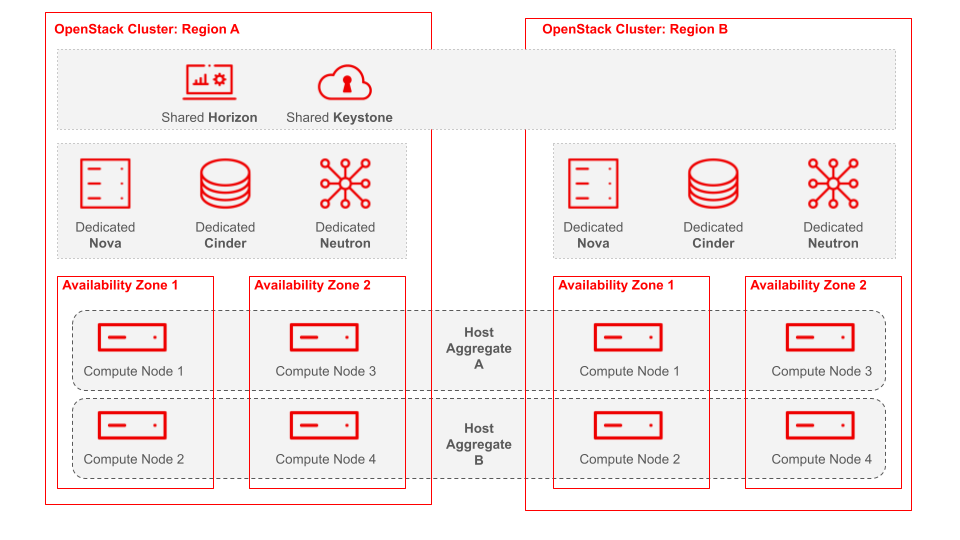
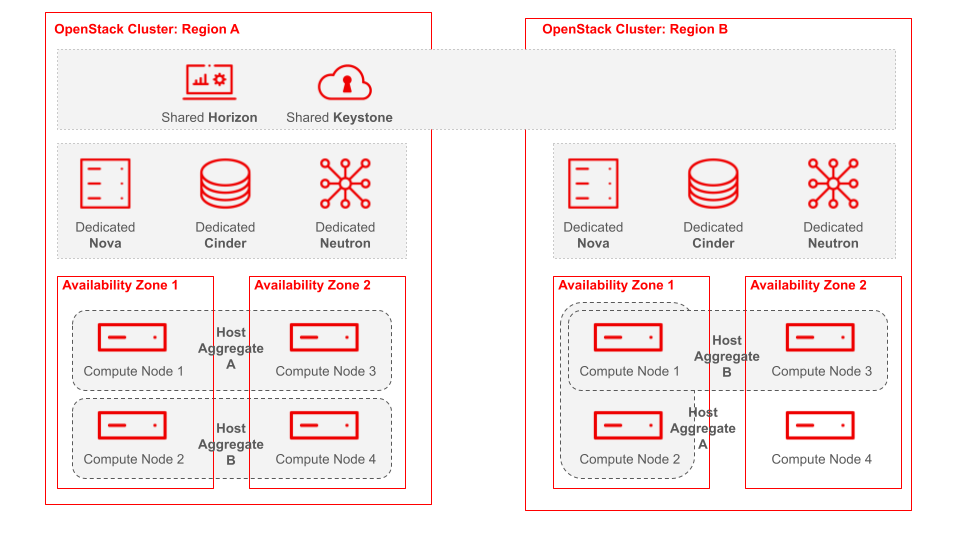
deploy: 9fea4e8fff949d83d8bedf75796d6da71beb3137

diff --git a/rhoso-intro/1/ch3-multitenancy/s3-regions-azs-cells-lecture.html b/rhoso-intro/1/ch3-multitenancy/s3-regions-azs-cells-lecture.html
@@ -295,7 +295,7 @@ The figures in this chapter do not list all user-facing OpenStack services just 
 </dd>
 <dt class="hdlist1">Availability Zones (AZs)</dt>
 <dd>
-<p>An availability zone is a failure domain inside an OpenStack cluster. It can be defined by a server rack, an uninterruptive power supply, a network switch, a data center building, or any other physical constraint that creates the possibility of all compute resources in the AZ becoming unavailable at the same time.</p>
+<p>An availability zone typically represents a failure domain inside an OpenStack cluster. It can be defined by a server rack, an uninterruptive power supply, a network switch, a data center building, or any other physical constraint that creates the possibility of all compute resources in the AZ becoming unavailable at the same time.</p>
 </dd>
 <dt class="hdlist1">Host Aggregates</dt>
 <dd>
@@ -311,7 +311,10 @@ The figures in this chapter do not list all user-facing OpenStack services just 
 <p>OpenStack Operators usually have direct visibility of only regions and AZs but not of host aggregates and cells. They can choose, for certain resource types, their region and AZ.</p>
 </div>
 <div class="paragraph">
-<p>OpenStack Operators are impacted by host aggregates and cells indirectly, from the definition of server flavors and other API resources which impact the automatic scheduling of server instances on cluster nodes.</p>
+<p>OpenStack Operators are impacted by host aggregates and cells indirectly, from the definition of server flavors which impact the scheduling of server instances on cluster nodes.</p>
+</div>
+<div class="paragraph">
+<p>Regions, AZs, host aggregates, and cells can be used in different ways to structure large privage clouds and the usage patterns vary considerably depending on size and number of data centers and other reasons. OpenStack is not very prescriptive on how and when to use those features, and this course shows examples of typical and recommended approaches.</p>
 </div>
 </div>
 </div>
@@ -319,28 +322,52 @@ The figures in this chapter do not list all user-facing OpenStack services just 
 <h2 id="_regions_and_azs"><a class="anchor" href="#_regions_and_azs"></a>Regions and AZs</h2>
 <div class="sectionbody">
 <div class="paragraph">
-<p>Regions and Availability Zones (AZs) may be familiar to users of public cloud services, and you could map these concepts in a similar way to OpenStack clusters. Not everyone is running a global private cloud and the concepts of regions and AZs are useful for smaller (But still large) OpenStack deployments.</p>
+<p>Regions and Availability Zones (AZs) may be familiar to users of public cloud services, and you could map these concepts in a similar way to OpenStack clusters. Not everyone is running a global private cloud and the concepts of regions and AZs may be useful for smaller  OpenStack deployments.</p>
+</div>
+<div class="sect2">
+<h3 id="_openstack_regions"><a class="anchor" href="#_openstack_regions"></a>OpenStack Regions</h3>
+<div class="paragraph">
+<p>A <a href="https://docs.openstack.org/python-openstackclient/latest/cli/command-objects/region.html">Region</a> is just a set of OpenStack API entry points. You could run as many or as few OpenStack services in each regions as you wish, but the common scenario is just running all services in all regions, except for a few shared services.</p>
 </div>
 <div class="paragraph">
-<p>A Region is basically one OpenStack cluster. Latency and bandwidth constrains, especially when related to end-users, or the availability of storage and high-speed LANs, may dictate the paritioning of a private cloud into multiple regions where either workloads run in a single region, or those workloads are architected as distributed applications which rely on external routing and replication services to run into multiple regions. Such workloads are effectively multiple instancies, or copies, of the same applications in each region.</p>
+<p>Your region does not need to represent a country nor a large geographical region, like public cloud providers do. It could be a small geographic region like city or even a data center building inside a large campus. It depends on your networking and storage infrastructure, and your need to retain the ability to keep operating a region, as an OpenStacl cluster, independently of other regions, in case of disasters such as earthquakes and floods.</p>
 </div>
 <div class="paragraph">
-<p>Your region does not need to be a country, it could be a city or even a data center building. It depends on your networking and storage infrastructure, and your need to retain the ability to operate a region independently of other regions, in case of disasters such as earthquakes and floods.</p>
+<p>It is assumed that OpenStack services in the same region work together, for example Nova can create server instances using volumes from Cinder and networks from Neutron on the same region. But services from different regions would not use each other because of network latency and bandwidth constraints. Other IT infrastructure, such as storage, may not work cross-regions or may work under significant performance and reliability constraints.</p>
 </div>
 <div class="paragraph">
-<p>One region will run shared services that enable authenticating and discovering OpenStack services in all regions, so it effectively looks like a single private cloud. Of course, there needs to be a special disaster recovery proccess or that region and its shared services.</p>
+<p>It is also assumed that OpenStack services in a region are standalone and work without knowledge of services in other regions, except from Keystone. So API resource names inside a region, such as names of server instances and availability zones, can be equal without creating a conflict. But, because all regions are connected to a shared Keystone, they all have the same users, domains, and projects.</p>
 </div>
 <div class="paragraph">
-<p>Availability Zones are partitions of an OpenStack cluster which include a subset of compute nodes from a region. That is, it is a partition of the data plane of an OpenStack cluster. All AZs share the same OpenStack services: Nova, Cinder, etc.</p>
+<p>One of your regions runs a shared Keysone service that enable authenticating and discovering OpenStack services in all regions, so it effectively looks like a single private cloud. If you use Horizon, there&#8217;s no need to run it in multiple regions. Of course, there needs to be a special disaster recovery proccess or that region and its shared services.</p>
+</div>
+</div>
+<div class="sect2">
+<h3 id="_openstack_azs"><a class="anchor" href="#_openstack_azs"></a>OpenStack AZs</h3>
+<div class="paragraph">
+<p><a href="https://docs.openstack.org/nova/latest/admin/availability-zones.html">Availability Zones</a> are partitions of an OpenStack cluster which include a subset of compute nodes from a region. That is, it is a partition of the data plane of an OpenStack cluster. All AZs share the same OpenStack control plane of their regions, and thus the same OpenStack services of their region.</p>
 </div>
 <div class="paragraph">
-<p>Availability Zones represent a failure domain of a cluster/region: something like a power supply, horizontal switch fabric, or even the cooling of a datacenter building, whose failufe effectively means the loss or unavailability of all compute nodes in the AZ.</p>
+<p>Availability Zones typically represent a failure domain of a cluster/region: something like a power supply, horizontal switch fabric, or even the cooling of a datacenter building, whose failufe effectively means the loss or unavailability of all compute nodes in the AZ.</p>
 </div>
 <div class="paragraph">
-<p>OpenStack Operators usually take AZs into account when planning production workloads: you do not want to run all server instances of the same application (or the same component of a service-oriented application) in the same AZ. You want to spread those server instances into different AZs, so the loss of a single AZ does not impact availability of the application for its end-users. OpenStack is able to automate the scaling and placement of server instances spread in that way.</p>
+<p>Internally, OpenStack implements AZs as an exposed host aggregate. A compute node can be a member of only one AZ but it can be a member of multiple other, non-exposed host aggregates.</p>
+</div>
+</div>
+<div class="sect2">
+<h3 id="_adressability_of_regions_and_azs"><a class="anchor" href="#_adressability_of_regions_and_azs"></a>Adressability of Regions and AZs</h3>
+<div class="paragraph">
+<p>Many OpenStack API resources include attributes to set the region and AZ they belong to and Operators want to control those attributes, which makes those two attributes of a cluster and of their compute nodes visible to OpenStack Operators.</p>
 </div>
 <div class="paragraph">
-<p>In the end, many OpenStack API resources include attributes to set the region and AZ they belong to and Operators want to control those attributes.</p>
+<p>OpenStack Operators usually take AZs into account when planning production workloads: you do not want to run all server instances of the same application (or the same component of a service-oriented application) in the same AZ. You want to spread those server instances into different AZs, so the loss of a single AZ does not impact availability of the application for its end-users.</p>
+</div>
+<div class="paragraph">
+<p>OpenStack is able to automate the scaling and placement of server instances spread in multiple AZs, but it is up to the application (or its OpenStack Operator) to design such multi-AZ applications, using features from OpenStack such as Octavia load balancers, external IT infrastructure such as storage backends which support volume replication, and application services such as sharded databases.</p>
+</div>
+<div class="paragraph">
+<p>Application workloads typically run inside a single region. Multi-region applications are designed as multiple copies (or instances) of the same application on each region and they rely on routing and replication services, not provided by OpenStack, to copy data between regions and direct users to the application instance in the closest region.</p>
+</div>
 </div>
 </div>
 </div>
@@ -348,19 +375,27 @@ The figures in this chapter do not list all user-facing OpenStack services just 
 <h2 id="_host_aggregates"><a class="anchor" href="#_host_aggregates"></a>Host Aggregates</h2>
 <div class="sectionbody">
 <div class="paragraph">
-<p>A Host Aggregate is a way to group compute nodes based on attributes, so OpenStack Administrators can create sets of compute nodes based on hardware characteristics and other criteria that impacts the cost and performance of running different classes of workloads on those physical servers.</p>
+<p>A <a href="https://docs.openstack.org/nova/latest/admin/aggregates.html">Host Aggregate</a> is a way to group compute nodes based on abitrary attributes, so OpenStack Administrators can create sets of compute nodes based on hardware characteristics and other criteria that impacts the cost and performance of running different classes of workloads on those physical servers.</p>
 </div>
 <div class="paragraph">
 <p>Physical machines are not born equal: some are designed to highly multithreaded applications, while others are designed for I/O intensive applications. Physical machines come not only with different kinds of CPUs, main memory, and caches, but also with different hardware accelerators and possibly multiple I/O buses. Running any application in whatever compute node is available may be inefficient and expensive.</p>
 </div>
 <div class="paragraph">
-<p>Most organizations have complex workloads with multiple components that require different classes of physical servers for optimum performance or lower cost. It may be that the simplicity of managing an undifferentiated pool of compute resources is good enough, but it may be that you need to manage the fit of applications to hardware, and host aggregates enable OpenStack Administrators and Operators to do that.</p>
+<p>Most organizations have complex workloads with components that require different classes of physical servers for optimum performance or lower cost. It may be that the simplicity of managing an undifferentiated pool of compute resources is good enough, but it may be that you need to manage a better fit of applications to hardware, and host aggregates enable OpenStack Administrators and Operators to do that.</p>
 </div>
 <div class="paragraph">
-<p>Because a host aggregate is tied to a class of physical machines, the same host aggregate can span regions and AZs. You don&#8217;t need to, but it would be unusual to put all machines of a special kind in a single AZ and lose all of them in case a power supply fails. It is more likely that those machines are spread into different server racks or buildings, thus into multiple AZs.</p>
+<p>Compute nodes can belong to multiple host aggregates. It is up to the OpenStack administrator to set the attributes which control membership of nodes to different host aggregates. If host aggregate is as an availability zone, then compute nodes cannot belong to other host aggregates also set as availability zones.</p>
 </div>
 <div class="paragraph">
-<p>OpenStack Administrators manage host aggregates and their relationship to API resources and OpenStack Operators use host aggregates, indirectly, to ensure applications get the class of compute node they need or that is best for them. Unlike regions and AZs, to which an OpenStack Operator has direct control, in the sense of "create this server instance in region-A and AZ-1", you cannot declare "create this server instance in host-aggregate-A". You must specify an indirect link:</p>
+<p>Because a host aggregate is tied to a class of physical machines, the same host aggregate can conceptually span multiple regions and AZs. For spanning AZs, remember that an AZ is a host aggregate and compute nodes can belong to multiple aggregates. For spanning regions, you could define the same attributes and assign the same names to aggregates in different regions for a consistent private cloud.</p>
+</div>
+<div class="paragraph">
+<p>You don&#8217;t need to, but it would be unusual to put all machines of a special kind in a single AZ and lose all of them in case a power supply fails. It is more likely that those machines are spread into different server racks or buildings, thus in multiple AZs, and that you have similar machines in multiple data center, thus in multiple regions.</p>
+</div>
+<div class="sect2">
+<h3 id="_addressability_of_host_aggregates"><a class="anchor" href="#_addressability_of_host_aggregates"></a>Addressability of Host Aggregates</h3>
+<div class="paragraph">
+<p>OpenStack Administrators manage host aggregates and their relationship to API resources. OpenStack Operators use host aggregates, indirectly, to ensure applications get the class of compute node they need or that is best for them. Unlike regions and AZs, to which an OpenStack Operator has direct visibility, in the sense of "create this server instance in region-A and AZ-1", you cannot declare "create this server instance in host-aggregate-A". You must specify an indirect link:</p>
 </div>
 <div class="olist arabic">
 <ol class="arabic">
@@ -368,23 +403,24 @@ The figures in this chapter do not list all user-facing OpenStack services just 
 <p>An Administrator configures a host aggregate, for example "gpu", and sets attributes to hosts which do include GPU hardware to match that host aggregate;</p>
 </li>
 <li>
-<p>An Administrator configures a server flavor, for example "ml", and sets attributes to link the server flavor to the "gpu" host aggregate;</p>
+<p>An Administrator configures one or more server flavors, for example "ml.small" and "ml.large", and sets attributes to link these server flavors to the "gpu" host aggregate;</p>
 </li>
 <li>
-<p>An Operator creates a server instance and specifies the "ml" server flavor for the instance.</p>
+<p>An Operator creates a server instance and specifies ether the "ml.small" or "ml.large" server flavor for the instance.</p>
 </li>
 </ol>
 </div>
 </div>
 </div>
+</div>
 <div class="sect1">
-<h2 id="_cells"><a class="anchor" href="#_cells"></a>Cells</h2>
+<h2 id="_compute_cells"><a class="anchor" href="#_compute_cells"></a>Compute Cells</h2>
 <div class="sectionbody">
 <div class="paragraph">
-<p>OpenStack cluster Cells are even less visible to OpenStack Operators than Host Aggregates. They relate to the reliability and scalability of an OpenStack control plane itself, instead of to workloads, but compute nodes must belong to one and only one cell, which makes this concept sometimes close to AZs.</p>
+<p>OpenStack cluster Cells are even less visible to OpenStack Operators than Host Aggregates. They relate to the reliability and scalability of an OpenStack control plane itself, instead of to workloads, but compute nodes must belong to one and only one cell, which makes this concept somewhat close to AZs.</p>
 </div>
 <div class="paragraph">
-<p>The following figures show two typical ways of configuring cells in an OpenStack cluster: first, configuring an 1:1 equivalente of AZs and cells:</p>
+<p>The following figures show three typical ways of configuring cells in an OpenStack cluster: first, configuring an 1:1 equivalence of AZs and cells:</p>
 </div>
 <div class="imageblock">
 <div class="content">
@@ -392,7 +428,7 @@ The figures in this chapter do not list all user-facing OpenStack services just 
 </div>
 </div>
 <div class="paragraph">
-<p>And second, creating multiple cells inside the same AZ. A cell cannot span compute nodes of multiple AZs.</p>
+<p>Second, creating multiple cells inside the same AZ. There could be more AZs beyond the one displayed in the figure.</p>
 </div>
 <div class="imageblock">
 <div class="content">
@@ -400,13 +436,24 @@ The figures in this chapter do not list all user-facing OpenStack services just 
 </div>
 </div>
 <div class="paragraph">
-<p>The Administration learning journey will provide more information about cells and the internal services which run in an OpenStack control plane. Just as a curiosity, every cluster has at least two cells:</p>
+<p>Third, creating AZs inside the same cell. There could be more cells beyond the one displayed in the figure.</p>
+</div>
+<div class="imageblock">
+<div class="content">
+<img src="_images/s3-regions-azs-cells-lecture-fig4.png" alt="s3 regions azs cells lecture fig4">
+</div>
+</div>
+<div class="paragraph">
+<p>The point is, cells and AZs are independent concepts. They relate to different aspects of partitioning and scaling OpenStack clusters. For your peace of mind, it is best to avoid designs where the mapping between cells and AZs is not 1:1 nor hierarchical. Anyway, one compute host must belong to a single AZ and to a single cell.</p>
+</div>
+<div class="paragraph">
+<p>The Administration learning journey will provide more information about cells and the internal services which run in an OpenStack control plane. Just as a curiosity, every OpenStack cluster has at least two cells:</p>
 </div>
 <div class="dlist">
 <dl>
 <dt class="hdlist1">Cell0</dt>
 <dd>
-<p>It stores global information for the region, and it is needed because API resources may not relate to a compute node at all, so it is not possible to determine in which cell database to store them. For example, if a server instance was not scheduled to any compute node, because no one had capacity for it. You still need the API resource for that server instance, to get its failed status and a cause.</p>
+<p>It stores global information for the region, and it is needed because API resources may not relate to a compute node at all, so it is not possible to determine in which cell database to store them. For example, if a server instance was not scheduled to any compute node, because no one had sufficient capacity for it. You still need the API resource for that server instance, to get its failed status and a cause.</p>
 </dd>
 <dt class="hdlist1">Cell1</dt>
 <dd>
@@ -415,7 +462,7 @@ The figures in this chapter do not list all user-facing OpenStack services just 
 </dl>
 </div>
 <div class="paragraph">
-<p>OpenStack compute nodes connect to the cell services (the database and message queue) directly, as well as many other componentes of an OpenStack control plane. In this course we do not explode the internal structure of individual OpenStack services, but for now it is sufficient to know that those internal componentes of each service interact with each user using the cell database and cell message queues.</p>
+<p>OpenStack compute nodes connect to the cell services (the database and message queue) directly, as well as many other componentes of an OpenStack control plane. In this course we do not explode the internal structure of individual OpenStack services, but for now it is sufficient to know that the internal components of each service interact with each user using the cell database and cell message queues.</p>
 </div>
 <div class="paragraph">
 <p>As you can see, OpenStack enables managing large pools of compute resources, but this requires planning and effort from Administrators.</p>
